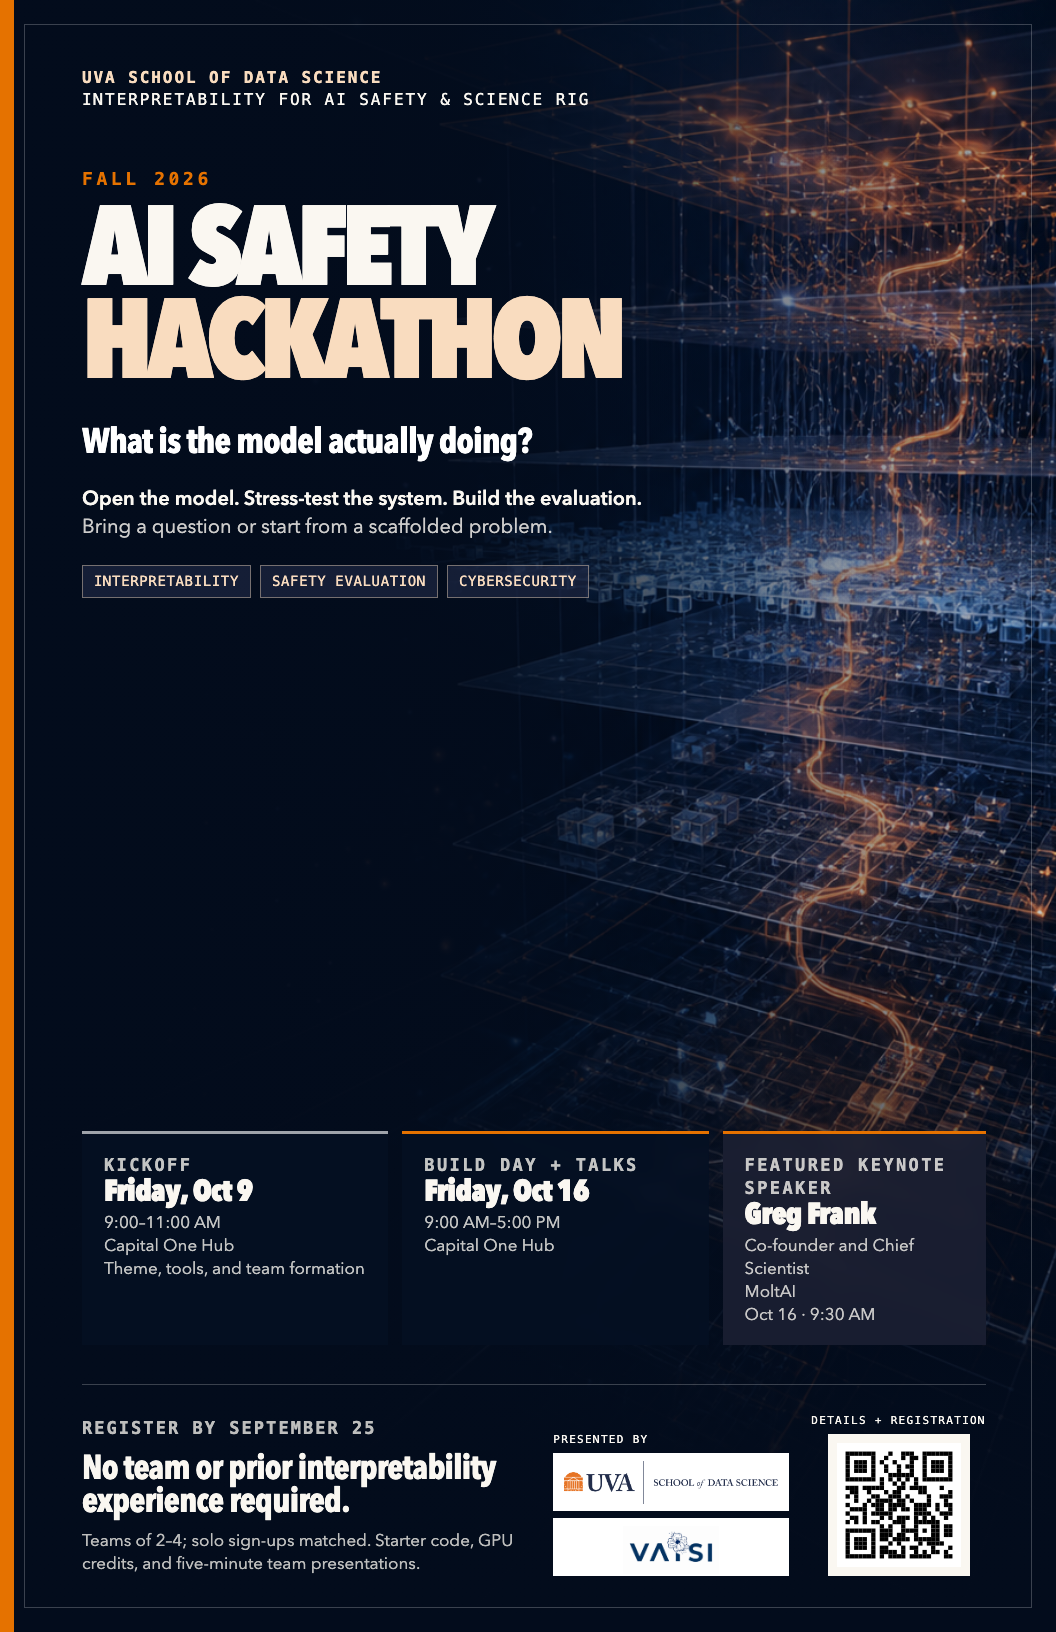
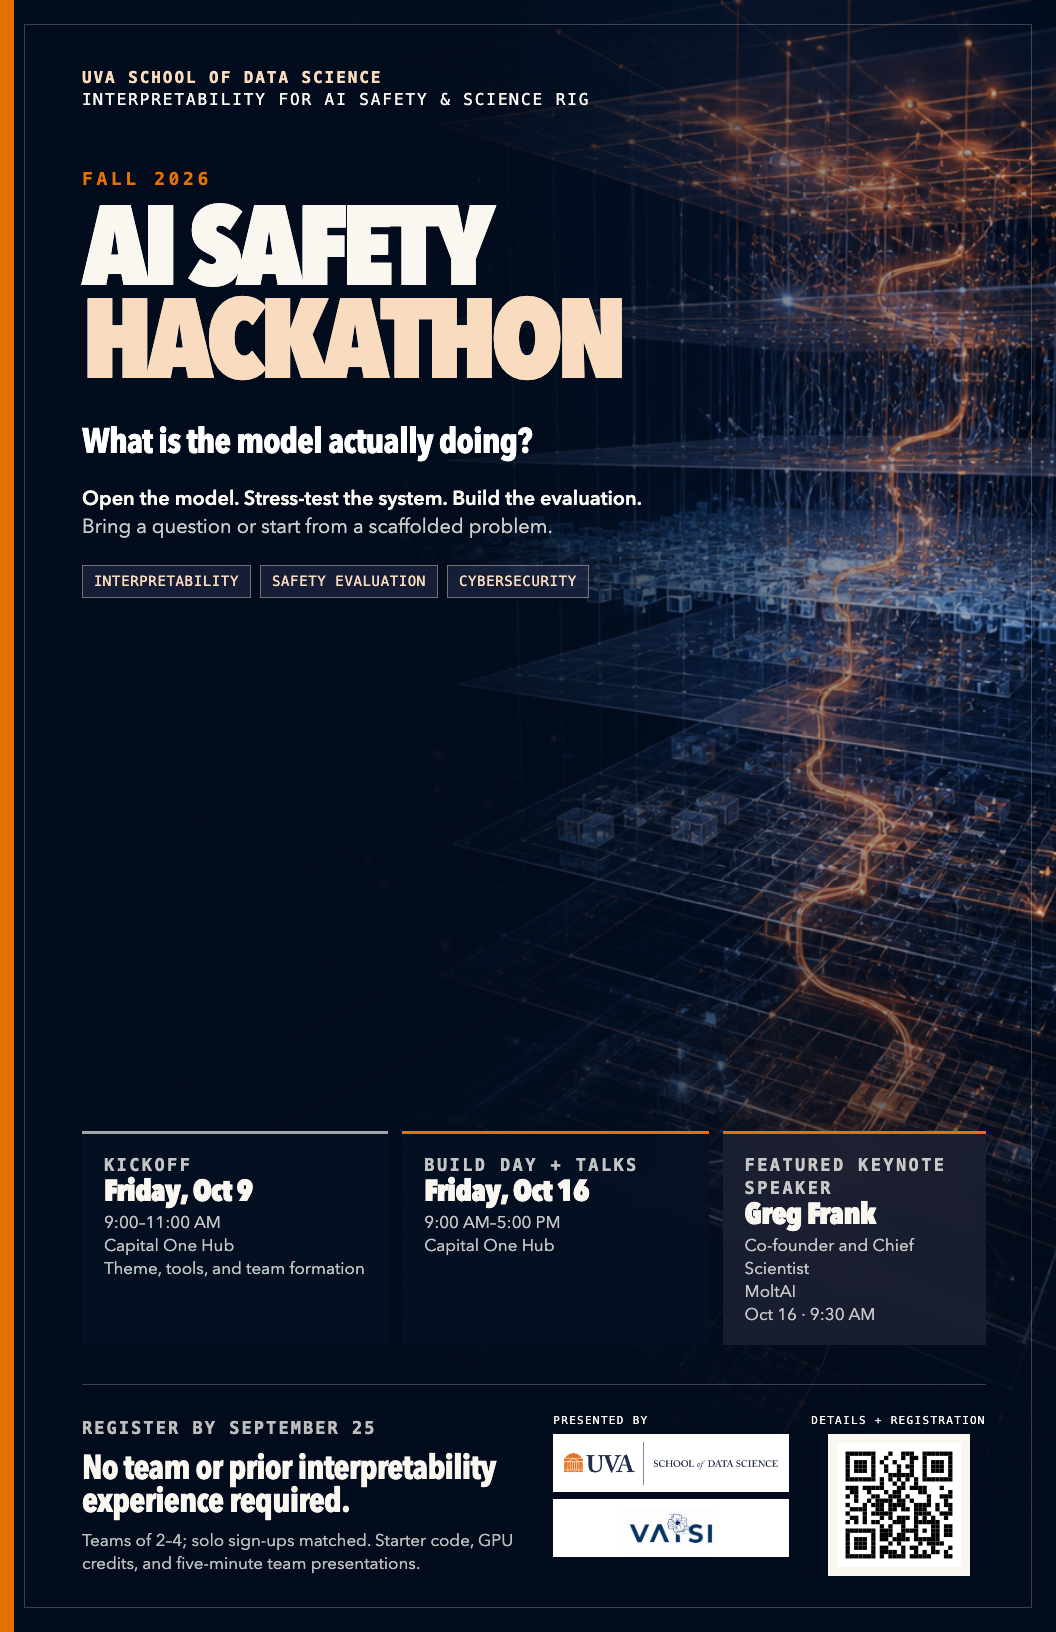
Align poster footer labels

Changed region(s): [[0.5312, 0.875, 0.75, 0.9688]]

diff --git a/poster/index.html b/poster/index.html
@@ -248,6 +248,7 @@
     .partners {
       display: grid;
       gap: 7px;
+      align-self: start;
     }
 
     .partners-label {
@@ -283,6 +284,7 @@
       display: grid;
       gap: 7px;
       justify-items: center;
+      align-self: start;
       color: var(--cream);
       font-family: var(--mono);
       font-size: 11px;
